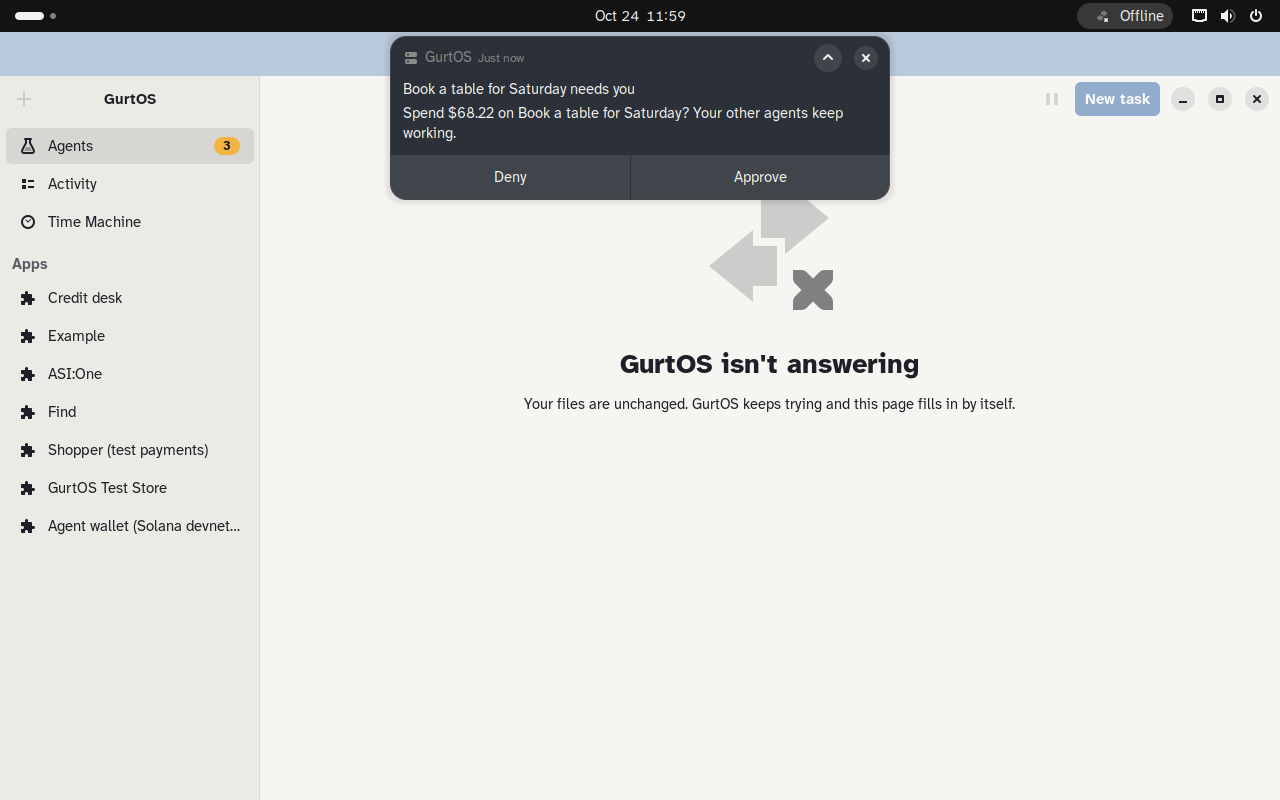
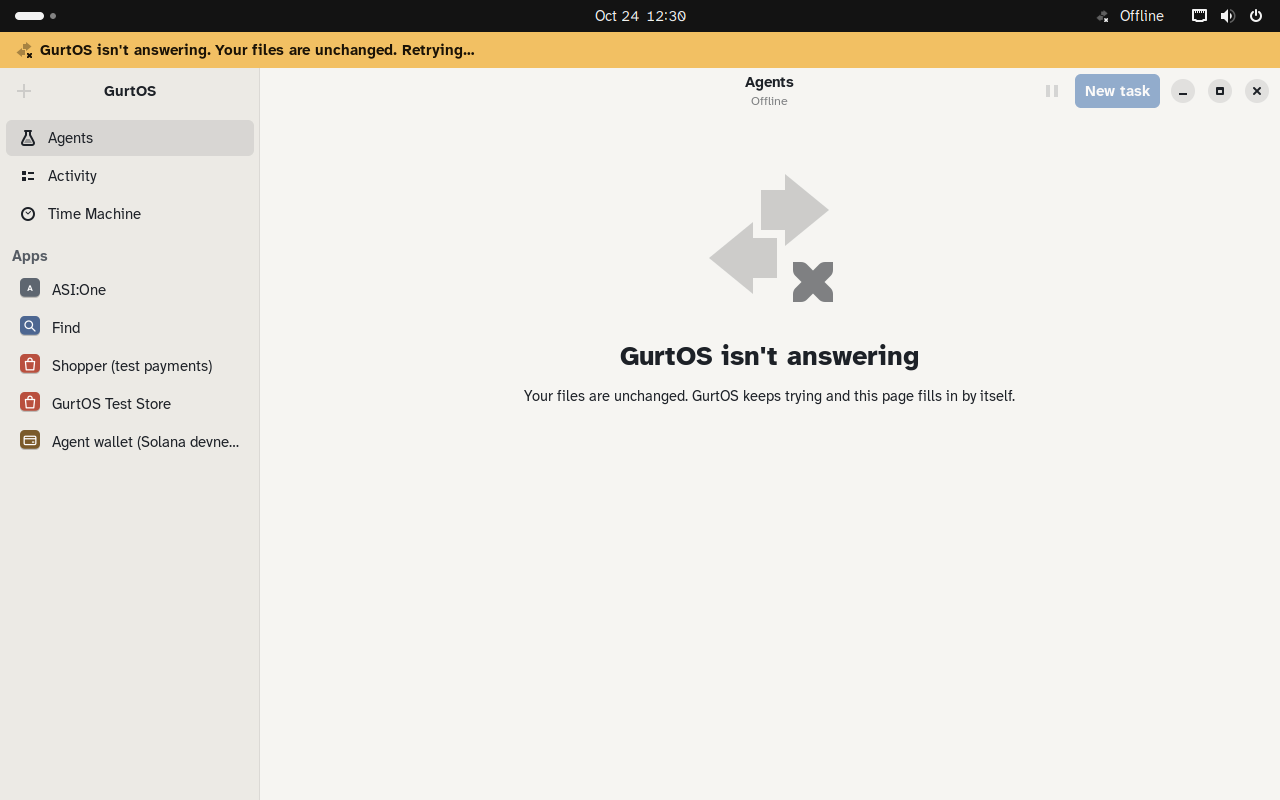
Personal: the app's sidebar lists Setup's apps with their own tiles, and no count while offline (P-33)

diff --git a/personal/agentsapp.py b/personal/agentsapp.py
@@ -11,10 +11,11 @@ import urllib.request
 from gi.repository import Adw, GLib, Gtk, Pango
 
 import tasklogic as tl
+from apptiles import tile
 from boxapi import BOX, api, background, quote, tilde
+from setupwin import PERSONAL_APPS
 
 ME = GLib.get_user_name()
-HIDDEN_PANELS = ('spacetime', 'anthropic')  # the box's own plumbing, not apps a person opens
 
 
 # ---------- small builders ----------
@@ -140,7 +141,7 @@ class AgentsWindow(Adw.ApplicationWindow):
                 return
             self.set_offline(False)
             self.tasks, self.pending, self.settings, self.apps, self.system = state[:5]
-            self.apps = [a for a in self.apps if a.get('track') not in HIDDEN_PANELS]
+            self.apps = [a for a in self.apps if a.get('track') in PERSONAL_APPS]  # the same apps Setup offers; no developer samples
             if first:
                 self.events = state[5]
                 self.fill_sidebar()
@@ -166,6 +167,7 @@ class AgentsWindow(Adw.ApplicationWindow):
             return
         self.offline = off
         self.banner.set_reveal_child(off)
+        self.update_badges()
         self.new_button_sensitive(not off)
         for fn in list(self.refreshers.values()):
             fn()
@@ -216,12 +218,15 @@ class AgentsWindow(Adw.ApplicationWindow):
         self.badge = Gtk.Label(css_classes=['gurt-count'], visible=False, valign=Gtk.Align.CENTER)
         items = [('agents', 'Agents', 'applications-science-symbolic'), ('activity', 'Activity', 'view-list-symbolic'),
                  ('timemachine', 'Time Machine', 'document-open-recent-symbolic')]
-        items += [(f"app:{a['name']}", a['title'], 'application-x-addon-symbolic') for a in self.apps]
+        items += [(f"app:{a['name']}", a['title'], a) for a in self.apps]
         if self.system.get('edition') == 'business':
             items.append(('business', 'Company (opens in your browser)', 'system-users-symbolic'))
         for n, (pid, title, icon) in enumerate(items):
             line = Gtk.Box(spacing=12, margin_top=6, margin_bottom=6, margin_start=6, margin_end=6)
-            line.append(Gtk.Image(icon_name=icon, accessible_role=Gtk.AccessibleRole.PRESENTATION))
+            if isinstance(icon, dict):  # an app: its own tile, as in Setup and Settings
+                line.append(tile(icon.get('track') or icon['name'], icon['title'], 20))
+            else:
+                line.append(Gtk.Image(icon_name=icon, accessible_role=Gtk.AccessibleRole.PRESENTATION))
             line.append(label(title, wrap=False, hexpand=True, ellipsize=Pango.EllipsizeMode.END))
             if pid == 'agents':
                 line.append(self.badge)
@@ -236,7 +241,7 @@ class AgentsWindow(Adw.ApplicationWindow):
     def update_badges(self):
         n = len(self.pending)  # requests only, the same count as the top bar
         self.badge.set_label(str(n))
-        self.badge.set_visible(n > 0)
+        self.badge.set_visible(n > 0 and not self.offline)  # no stale count while GurtOS is down
 
     # ----- navigation -----
 
